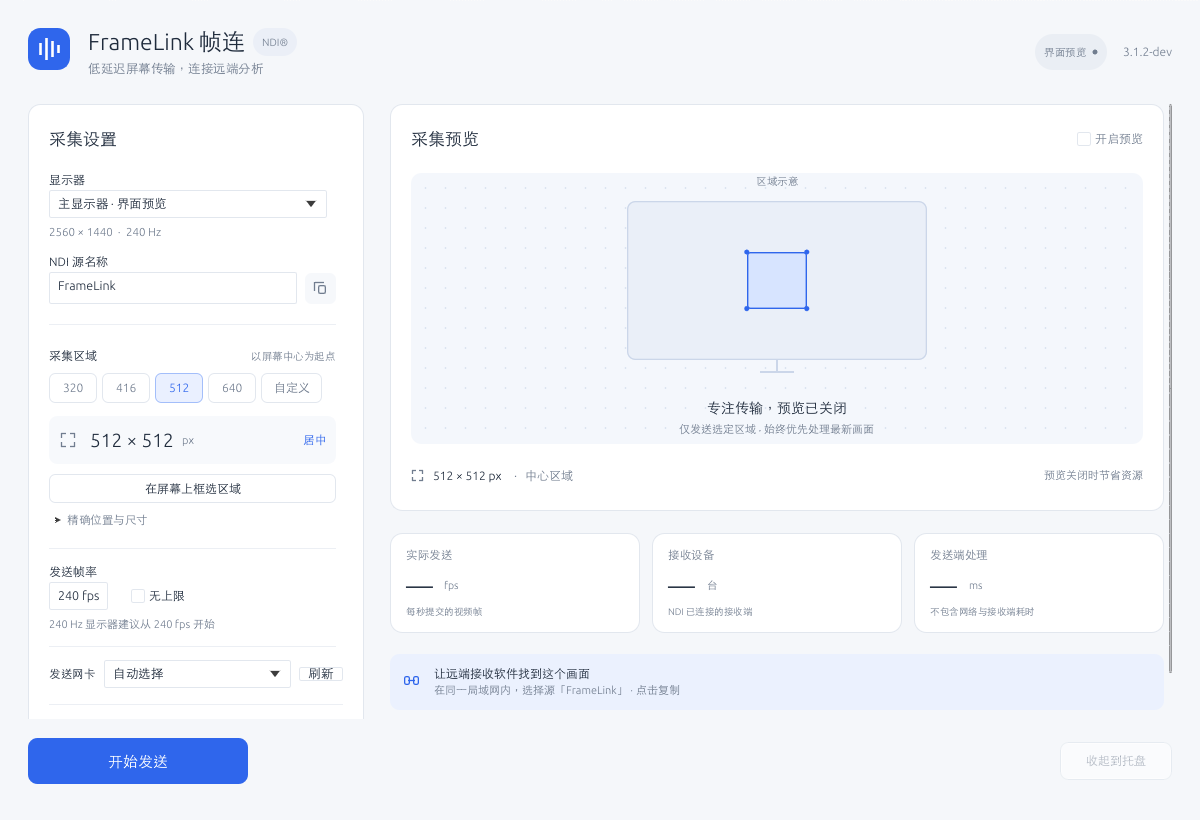
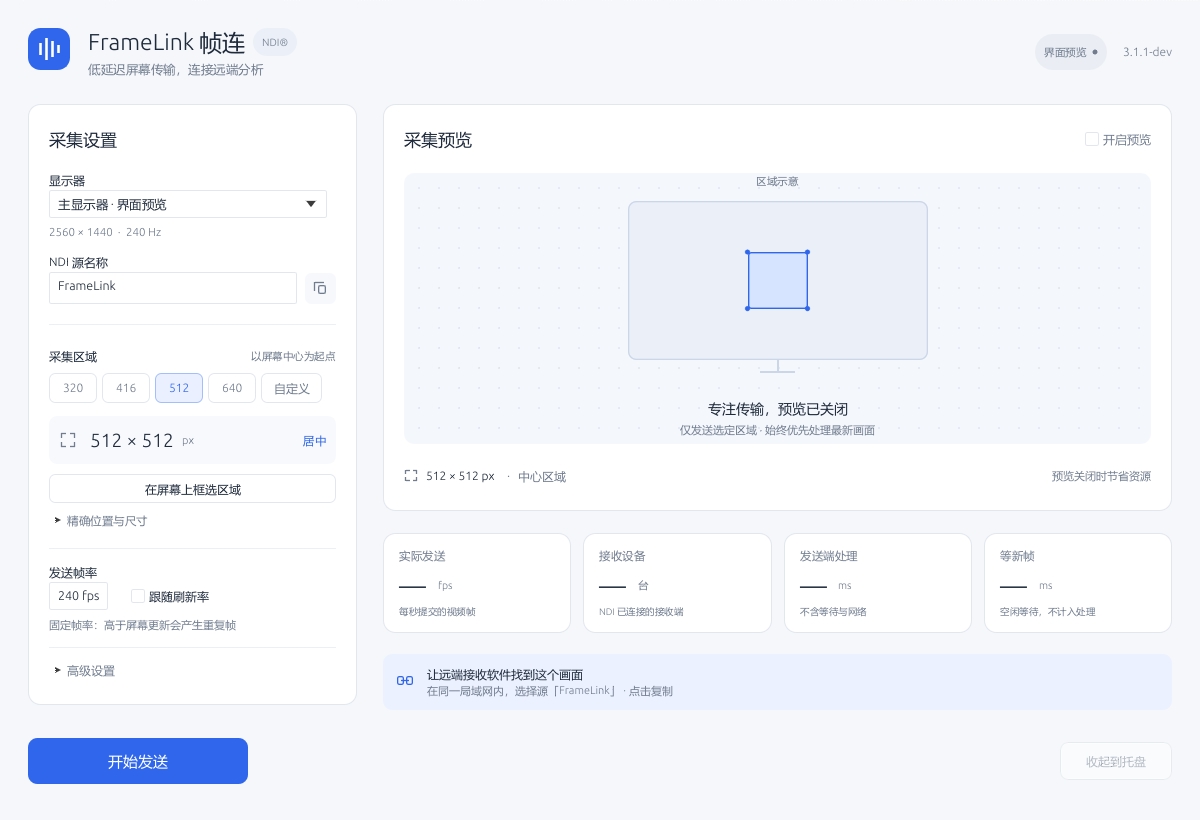
metrics: exclude compositor wait from sender processing
Following the refresh rate blocks inside AcquireNextFrame, so the same work
appeared to cost ~4 ms at 240 Hz while the fixed-rate mode hid the pacer wait
outside the timed section. The two modes were not comparable and the label
oversold the cost.

Measure the acquire wait unconditionally (two QPC reads), subtract it from the
capture cost with saturating_sub, and report it as its own "等新帧" card. macOS
uses the next_frame blocking time minus the readback. README and the developer
notes describe the split, and the UI snapshots show the four cards.

diff --git a/rust/engine.rs b/rust/engine.rs
@@ -373,6 +373,12 @@ mod windows_worker {
         }
     }
 
+    /// Sender processing excludes the time the loop spent blocked inside the
+    /// compositor, so both frame-pacing modes report the same kind of cost.
+    fn processing_time(began: Instant, captured: Instant, wait: Duration) -> Duration {
+        captured.duration_since(began).saturating_sub(wait)
+    }
+
     fn validate_desktop_region(config: &Config) -> Result<(), String> {
         // Enumeration can temporarily fail on desktop/session transitions.
         // A real nonempty display layout provides enough evidence to stop an
@@ -432,6 +438,7 @@ mod windows_worker {
                     s.capture_ms = 0.0;
                     s.conversion_ms = 0.0;
                     s.submit_ms = 0.0;
+                    s.wait_ms = 0.0;
                     s.receivers = receivers;
                     s.uptime_sec = started.elapsed().as_secs_f64();
                 });
@@ -453,11 +460,11 @@ mod windows_worker {
             let result = (|| -> Result<(), CaptureError> {
                 // Unlimited acquisition is bounded so stop and recovery remain responsive.
                 let acquired = current.acquire(if config.unlimited { 20 } else { 0 })?;
-                let Some(changed) = acquired else {
+                let Some(acquired) = acquired else {
                     return Ok(());
                 };
                 // Capture suppresses unlimited-mode repeats except its one-second heartbeat.
-                let plan = slots.prepare(changed);
+                let plan = slots.prepare(acquired.changed);
                 let mut captured = Instant::now();
                 let mut converted = captured;
                 if plan.refresh {
@@ -488,7 +495,9 @@ mod windows_worker {
                 } else {
                     repeats += 1;
                 }
-                measurements.capture += (captured - began).as_secs_f64() * 1000.0;
+                measurements.capture +=
+                    processing_time(began, captured, acquired.wait).as_secs_f64() * 1000.0;
+                measurements.wait += acquired.wait.as_secs_f64() * 1000.0;
                 measurements.conversion += (converted - captured).as_secs_f64() * 1000.0;
                 measurements.submit += (submitted - converted).as_secs_f64() * 1000.0;
                 measurements.count += 1;
@@ -563,6 +572,7 @@ mod windows_worker {
                     s.capture_ms = measurements.capture / n;
                     s.conversion_ms = measurements.conversion / n;
                     s.submit_ms = measurements.submit / n;
+                    s.wait_ms = measurements.wait / n;
                     s.uptime_sec = now.duration_since(started).as_secs_f64();
                     if config.diagnostics {
                         s.timings.clone_from(&timings);
@@ -591,6 +601,29 @@ mod windows_worker {
         // before stable pixel buffers/descriptors are dropped, including unwind.
         drop(stream);
         Ok(())
+    }
+
+    #[cfg(test)]
+    mod tests {
+        use super::*;
+        #[test]
+        fn processing_time_excludes_compositor_wait() {
+            let began = Instant::now();
+            let captured = began + Duration::from_micros(5_000);
+            assert_eq!(
+                processing_time(began, captured, Duration::from_micros(4_000)),
+                Duration::from_micros(1_000)
+            );
+            assert_eq!(
+                processing_time(began, captured, Duration::ZERO),
+                Duration::from_micros(5_000)
+            );
+            // Clock granularity can report a longer wait than the span; never underflow.
+            assert_eq!(
+                processing_time(began, captured, Duration::from_micros(9_000)),
+                Duration::ZERO
+            );
+        }
     }
 }
 

diff --git a/rust/capture.rs b/rust/capture.rs
@@ -44,6 +44,16 @@ impl fmt::Display for CaptureError {
 }
 impl std::error::Error for CaptureError {}
 
+/// Result of one acquisition: whether the pixels are new and how long the call
+/// blocked inside the desktop compositor. That block is idle waiting, not work.
+#[derive(Clone, Copy, Debug, Default)]
+pub struct Acquired {
+    pub changed: bool,
+    /// Time spent waiting for the next desktop update. GDI polls the desktop
+    /// directly, so it never waits and its whole capture cost is sender work.
+    pub wait: Duration,
+}
+
 /// Per-acquisition timings and desktop metadata. These are not network latency.
 #[derive(Clone, Copy, Debug, Default)]
 pub struct CaptureDiagnostics {
@@ -520,7 +530,7 @@ impl DxgiCapture {
             "DXGI采集区域必须完整位于一台活动显示器内；跨屏请使用兼容采集（GDI）".into(),
         ))
     }
-    fn acquire(&mut self, timeout_ms: u32) -> Result<Option<bool>, CaptureError> {
+    fn acquire(&mut self, timeout_ms: u32) -> Result<Option<Acquired>, CaptureError> {
         self.diagnostics = CaptureDiagnostics {
             last_present_qpc: self.diagnostics.last_present_qpc,
             ..CaptureDiagnostics::default()
@@ -538,14 +548,15 @@ impl DxgiCapture {
         let mut info = DXGI_OUTDUPL_FRAME_INFO::default();
         let mut resource = None;
         let mut changed = false;
-        let acquire_started = self.diagnostics_enabled.then(Instant::now);
+        // Compositor blocking is measured even with diagnostics off: the sender
+        // reports that idle waiting separately from its own processing cost.
+        let acquire_started = Instant::now();
         let acquired = unsafe {
             self.duplication
                 .AcquireNextFrame(timeout_ms, &mut info, &mut resource)
         };
-        if let Some(started) = acquire_started {
-            self.diagnostics.acquire_ms = started.elapsed().as_secs_f64() * 1000.0;
-        }
+        let waited = acquire_started.elapsed();
+        self.diagnostics.acquire_ms = waited.as_secs_f64() * 1000.0;
         match acquired {
             Ok(()) => {
                 let frame = FrameLease::new(DxgiFrame(self.duplication.clone()));
@@ -605,7 +616,10 @@ impl DxgiCapture {
             return Ok(None);
         }
         self.last_yield = Instant::now();
-        Ok(Some(changed))
+        Ok(Some(Acquired {
+            changed,
+            wait: waited,
+        }))
     }
     fn with_bgra<T>(
         &mut self,
@@ -704,7 +718,7 @@ impl Capture {
             },
         })
     }
-    pub fn acquire(&mut self, timeout_ms: u32) -> Result<Option<bool>, CaptureError> {
+    pub fn acquire(&mut self, timeout_ms: u32) -> Result<Option<Acquired>, CaptureError> {
         match &mut self.inner {
             CaptureInner::Dxgi(c) => c.acquire(timeout_ms),
             CaptureInner::Gdi {
@@ -725,7 +739,11 @@ impl Capture {
                 }
                 result?;
                 *has_image = true;
-                Ok(Some(true))
+                // GDI copies the desktop synchronously; it never idles here.
+                Ok(Some(Acquired {
+                    changed: true,
+                    wait: Duration::ZERO,
+                }))
             }
         }
     }

diff --git a/rust/engine/macos_worker.rs b/rust/engine/macos_worker.rs
@@ -51,9 +51,13 @@ pub(super) fn run(shared: &Shared, config: &Config) -> Result<(), String> {
     let mut frames = 0u64;
     let mut window_frames = 0u64;
     while !shared.stop.load(Ordering::Acquire) {
+        let polled_at = Instant::now();
         let frame = capture
             .next_frame(Duration::from_millis(20))
             .map_err(capture_message)?;
+        // Sample callbacks wait for the compositor, which is idle time rather
+        // than processing work; readback still counts as capture cost.
+        let polled = polled_at.elapsed();
         if let Some(frame) = frame {
             if shared.stop.load(Ordering::Acquire) {
                 break;
@@ -75,6 +79,8 @@ pub(super) fn run(shared: &Shared, config: &Config) -> Result<(), String> {
             measurements.capture += frame.readback_duration.as_secs_f64() * 1000.0;
             measurements.conversion += (converted - captured).as_secs_f64() * 1000.0;
             measurements.submit += (submitted - converted).as_secs_f64() * 1000.0;
+            measurements.wait +=
+                polled.saturating_sub(frame.readback_duration).as_secs_f64() * 1000.0;
             measurements.count += 1;
             if shared.preview_enabled.load(Ordering::Relaxed)
                 && submitted.duration_since(last_preview) >= Duration::from_millis(500)
@@ -108,6 +114,7 @@ pub(super) fn run(shared: &Shared, config: &Config) -> Result<(), String> {
                 stats.capture_ms = measurements.capture / count;
                 stats.conversion_ms = measurements.conversion / count;
                 stats.submit_ms = measurements.submit / count;
+                stats.wait_ms = measurements.wait / count;
                 stats.uptime_sec = now.duration_since(started).as_secs_f64();
             });
             last_stats = now;

diff --git a/rust/ui.rs b/rust/ui.rs
@@ -888,7 +888,7 @@ impl DesktopApp {
         });
         ui.add_space(16.0);
         let active = self.engine.is_running() && self.stats.frames > 0;
-        let width = ((ui.available_width() - 24.0) / 3.0).max(70.0);
+        let width = ((ui.available_width() - 36.0) / 4.0).max(70.0);
         ui.horizontal_top(|ui| {
             ui.spacing_mut().item_spacing.x = 12.0;
             metric(
@@ -928,8 +928,25 @@ impl DesktopApp {
                     "—".into()
                 },
                 "ms",
-                "不包含网络与接收端耗时",
-                Some("采集、颜色转换与 NDI 提交的合计耗时。此数值不是端到端延迟。"),
+                "不含等待与网络",
+                Some(
+                    "采集拷贝、颜色转换与 NDI 提交的合计耗时，不含等待桌面新帧的空闲时间、网络与接收端。此数值不是端到端延迟。",
+                ),
+            );
+            metric(
+                ui,
+                width,
+                "等新帧",
+                if active {
+                    format!("{:.2}", self.stats.wait_ms)
+                } else {
+                    "—".into()
+                },
+                "ms",
+                "空闲等待，不计入处理",
+                Some(
+                    "上一帧提交后等待桌面出新画面的空闲时间，不计入“发送端处理”。跟随刷新率模式要等到下一帧出现才采集，帧一出现就立即发出，这段等待不会增加画面延迟；固定帧率模式按节拍取帧，这里接近 0。",
+                ),
             );
         });
         ui.add_space(15.0);

diff --git a/rust/model.rs b/rust/model.rs
@@ -163,6 +163,7 @@ pub struct Stats {
     pub capture_ms: f64,
     pub conversion_ms: f64,
     pub submit_ms: f64,
+    pub wait_ms: f64,
     pub frames: u64,
     pub repeats: u64,
     pub uptime_sec: f64,

diff --git a/rust/engine/send_pipeline.rs b/rust/engine/send_pipeline.rs
@@ -62,6 +62,7 @@ pub(super) struct Measurements {
     pub(super) capture: f64,
     pub(super) conversion: f64,
     pub(super) submit: f64,
+    pub(super) wait: f64,
     pub(super) count: u64,
 }
 
